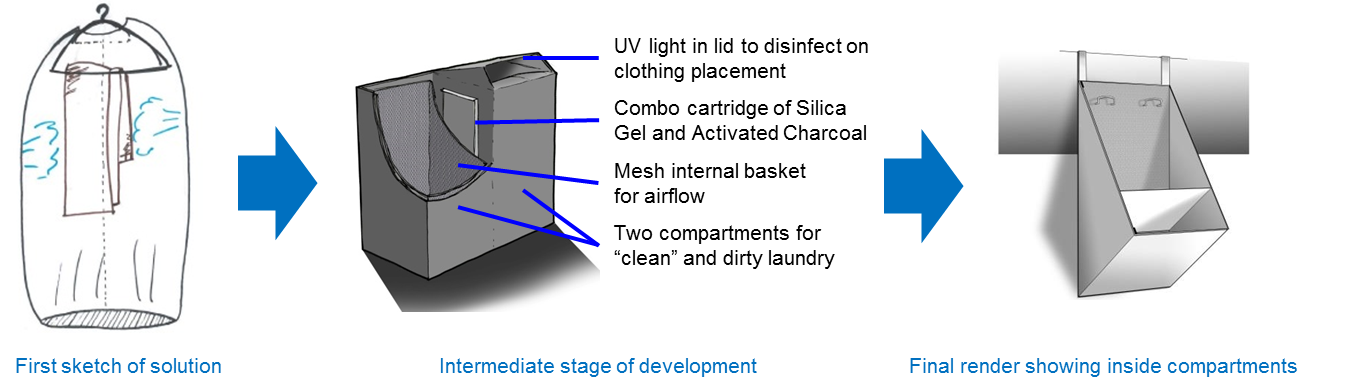
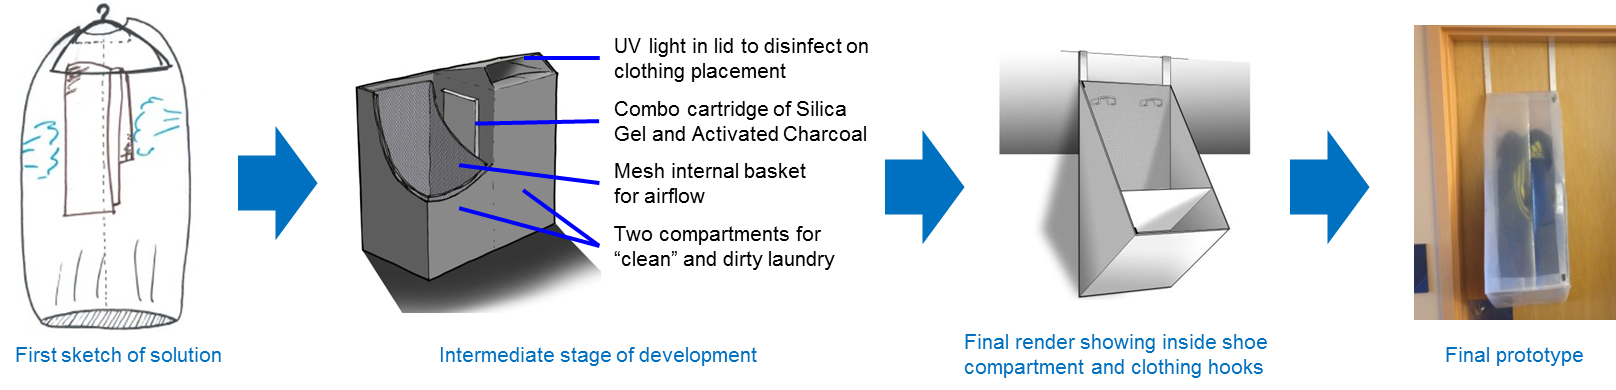
IPD finished i think maybe

diff --git a/ipd.html b/ipd.html
@@ -34,9 +34,7 @@
 
         <div id="navbar" class="navbar-collapse collapse">
           <ul class="nav navbar-nav">
-            <li class="active"><a href="http://caseymonahan.github.io/Portfolio/">Home</a></li>
-            <li><a href="about.html">About</a></li>
-            <li><a href="#contact">Contact</a></li>
+            <li class="active"><a href="http://caseymonahan.github.io/Portfolio/">Casey Monahan - Home</a></li>
           </ul>
         </div><!--/.nav-collapse -->
       </div>
@@ -46,8 +44,7 @@
     <!-- Main jumbotron for a primary marketing message or call to action -->
     <div class="jumbotron">
       <div class="container">
-        <a href="http://caseymonahan.github.io/Portfolio/" alt="Home"><h3>Casey Monahan</h3></a>
-        <h1>Fresh Gear</h1><h2>Designing a clothing storage solution to keep your clothes smelling and feeling clean</h2>
+        <h2>Fresh Gear</h2><h2>Designing a clothing storage solution to keep your clothes smelling and feeling clean</h2>
       </div>
     </div>
 
@@ -59,29 +56,28 @@
         </div>
         <div class="row">
         <div class="col-md-4">
-          <p>Problem:  Sam runs 5 days a week. Since he only does laundry every 2 weeks, he often wears running shorts multiple times. He doesn’t know where to put them after he wears them once, so they pile up on his floor and smell gross, especially after a few days.
+          <p><h4>Problem:</h4>  Sam runs 5 days a week. Since he only does laundry every 2 weeks, he often wears running shorts multiple times. He doesn’t know where to put them after he wears them once, so they pile up on his floor and smell gross, especially after a few days.
           </p>
-          <p>Solution:  Intermediate Clothing Cleaning - remove smell and dampness so clothing can be worn again FreshGear allows already worn but not dirty clothing to dry out and return to freshness for re-wear. This also creates a 'home' for clothing worn once, previously homeless because users didn't want to put clothes back in a dresser with clean clothes, or in the hamper where they would get even dirtier.</p>
+          <p><h4>Solution:</h4>  Intermediate Clothing Cleaning - remove smell and dampness so clothing can be worn again FreshGear allows already worn but not dirty clothing to dry out and return to freshness for re-wear. This also creates a 'home' for clothing worn once, previously homeless because users didn't want to put clothes back in a dresser with clean clothes, or in the hamper where they would get even dirtier.</p>
         </div>
         </div>
         <hr></hr>
         <div class="row">
-          <div class="col-md-2" >
-          <p>My team of two engineers, three business students and one industrial desiger worked together to create a clothing storage prototype that reduces "funk" in clothing that has already been worn once. This allows the user to re-wear clothing, reducing amount of clothing needed, as well as laundry. </p>
-                      <h3>User Interviews</h3>
+          <div class="col-md-3" >
+            <h3>User Interviews</h3>
              <h4>What makes clothes dirty?</h4>
-             <p>"funk"</p><p>"worn it twice"</p><p>"smell"</p><p>"<i>actual</i> dirt"</p>
-          </div>
-          <div class="col-md-2">
-            <img style="width:90%"  align="middle" src="images/ipd/finalprototype.jpg">   
-          </div>
-
-          <div class="col-md-8" >
-            <img style="width:90%"  align="middle" src="images/ipd/iterativedesign.png">
-            <div align="middle">Intermediate Design</div>
+             <p>"funk"</p><p>"I wore it twice"</p><p>"smell"</p><p>"<i>actual</i> dirt"</p>
+                       </div>
+          <div class="col-mid-9">            
             <h3>Iterative Design</h3>
+            <p>The ideas was proposed as a sort of suit bag that treated clothing to reduce smell</p>
             <p>One of our intermediate designs combined a dirty laundry hamper with a once-worn clothing container that included a UV light to kill smell-causing bacteria.</p>
-            <p>The final prototype eliminated UV light in order to keep the system energy passive and more user-friendly. Hangs over closet door to move clothes away from the floor, which is perceived as a place for dirty clothes.</p>
+            <p>The final prototype eliminated UV light in order to keep the system energy passive and more user-friendly. Hangs over closet door to move clothes away from the floor, which is perceived as a place for dirty clothes. We built both a looks-like prototype shown here, as well as a works-like protoype that used silica gel to absorb moisture and activated charcoal to reduce semell.</p>
+          </div>
+        </div>
+        <div class="row">
+          <div class="col-md-12" >
+            <img style="width:90%"  align="middle" src="images/ipd/iterativedesign.png">
           </div>
         </div>
         <hr></hr>
@@ -89,6 +85,7 @@
           <p>FreshGear: Integrated Product Design, Fall 2013</p>
           <p>Teammates: Jordyn Burger (Olin), Mike Avagianos (MassArt), Bob Son, Seung Hwan Shin, and Trevor Sullivan (Babson)</p>
           <p>IPD was a collaborative class between Olin, Babson, and Massachusetts College of Art and Design. The aim was to develop a product for “the sustainable home” and produce a looks-like model, a works-like prototype, and a complementary business model.</p>
+          <p>Sketches here by Casey Monahan, renders by Mike Avagianos</p>
           <p>Thanks to instructors Ben Linder (Olin) and Sebastian Fixson (Babson), and teaching assistant Kathryn Brookshier (Olin)</p>
         </div>
       </div>
